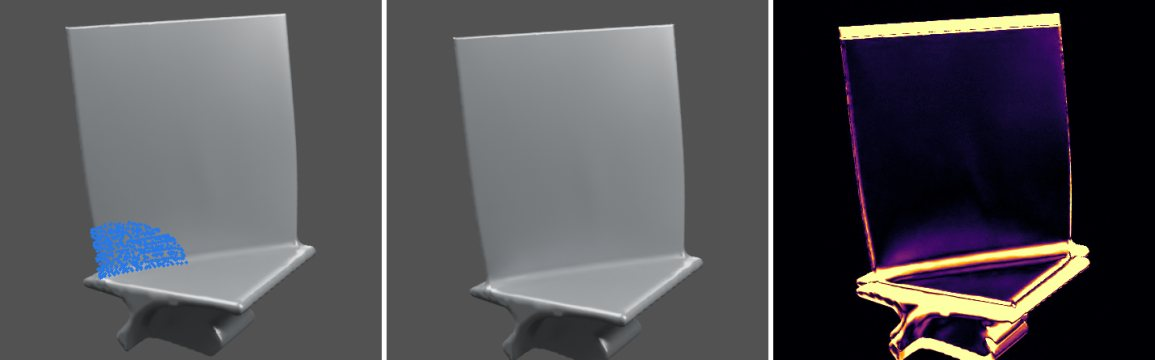
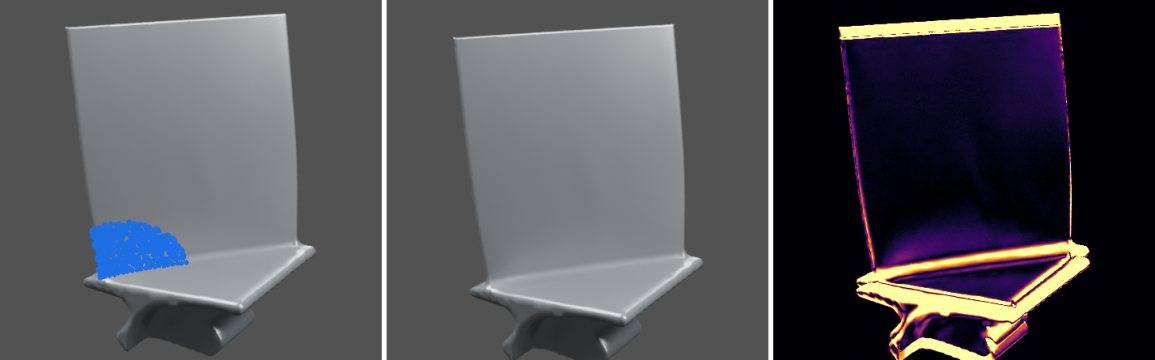
CAD6: every method on held-out blades, same-case comparison, clearer markers

Changed region(s): [[0.0623, 0.6111, 0.187, 0.7944]]

diff --git a/results.html b/results.html
@@ -6,7 +6,7 @@
 <link rel="stylesheet" href="styles.css">
 <style>main.res{max-width:1100px;margin:0 auto;padding:32px 16px 64px;display:grid;gap:18px} main.res small{color:var(--muted)}</style>
 </head><body><main class="res">
-<span class="eyebrow">BladeDelta results · 09 Oct 2026, 10:09 UTC</span>
+<span class="eyebrow">BladeDelta results · 09 Oct 2026, 10:35 UTC</span>
 <h1>Sealed-test results <span class="chip partial">updating automatically</span></h1>
 <p>This page is rebuilt automatically from the experiment outputs. The test set is 240 cases on 30 blade shapes never used
 for development; the method and its threshold were locked before any test image existed. Brackets are 95% intervals,
@@ -54,6 +54,23 @@ blades 1&ndash;2 and will be reported on blades 3&ndash;6, next to the frozen re
 <figcaption>Each dot is one case. Red: healthy or stained blades, which should score below the dashed line. Blue: dents the cameras can
 see, which should score above it. Dents score high everywhere. On blades 1&ndash;3 (and partly 4) healthy blades score high too, so the frozen threshold
 cannot separate them; on blade 5 it mostly works. The false-alarm rate per blade is in the title.</figcaption></figure>
+<h3>Every method on your held-out blades 3&ndash;6</h3><figure><img src="img/results/cad6_methods.png" alt="Methods on CAD6">
+<figcaption>Same 304 cases, each method at its own frozen threshold. The transfer failure is shared: the CADSplat-style free-form field also
+raises many false alarms and rarely places dents correctly, and discrete search keeps false alarms low only by almost never reporting.
+v1.1 is best on separation, location, false alarms and hidden-dent abstention. The 2D detector and the MLP field are added when their runs finish.</figcaption></figure>
+<h3>Same case, every method (blade 3, held out)</h3><p>Orange rings: the true dent. Blue dots: what each method reports.</p>
+<h4 style="margin-top:8px">Real dent (0.37&nbsp;mm), camera moved</h4><div style="display:grid;grid-template-columns:repeat(auto-fit,minmax(min(100%,520px),1fr));gap:14px">
+<figure><img src="img/latest/cad6_1003_01.jpg" alt="v1 (frozen)" loading="lazy"><figcaption><b>v1 (frozen)</b></figcaption></figure>
+<figure><img src="img/latest/cad6_1003_01_freeform.jpg" alt="Free-form field (CADSplat-style)" loading="lazy"><figcaption><b>Free-form field (CADSplat-style)</b></figcaption></figure>
+<figure><img src="img/latest/cad6_1003_01_discrete.jpg" alt="Discrete search" loading="lazy"><figcaption><b>Discrete search</b></figcaption></figure>
+<figure><img src="img/latest/cad6_1003_01_v11.jpg" alt="v1.1" loading="lazy"><figcaption><b>v1.1</b></figcaption></figure>
+</div>
+<h4 style="margin-top:8px">Healthy blade, camera and lighting changed</h4><div style="display:grid;grid-template-columns:repeat(auto-fit,minmax(min(100%,520px),1fr));gap:14px">
+<figure><img src="img/latest/cad6_1003_35.jpg" alt="v1 (frozen)" loading="lazy"><figcaption><b>v1 (frozen)</b></figcaption></figure>
+<figure><img src="img/latest/cad6_1003_35_freeform.jpg" alt="Free-form field (CADSplat-style)" loading="lazy"><figcaption><b>Free-form field (CADSplat-style)</b></figcaption></figure>
+<figure><img src="img/latest/cad6_1003_35_discrete.jpg" alt="Discrete search" loading="lazy"><figcaption><b>Discrete search</b></figcaption></figure>
+<figure><img src="img/latest/cad6_1003_35_v11.jpg" alt="v1.1" loading="lazy"><figcaption><b>v1.1</b></figcaption></figure>
+</div>
 <figure><img src="img/results/cad6_size.png" alt="CAD6 by blade size" style="max-width:760px"><figcaption>The frozen method works on the two largest blades (5 and 6) and fails on the small ones. Re-tuning one threshold on these blades does not help (4% false alarms, but only 13% of dents found), so the fix has to be in the method: v1.1.</figcaption></figure>
 <h3>Examples on your blades (left: photo with true dent orange and reported dent blue; middle: healthy reference; right: difference)</h3>
 <figure><img src="img/latest/cad6_1001_00.jpg" alt="Frozen v1 finds a real dent" loading="lazy"><figcaption><b>Frozen v1 finds a real dent.</b> Blade 1, no camera change: the dent (orange) is found exactly (blue).</figcaption></figure>
